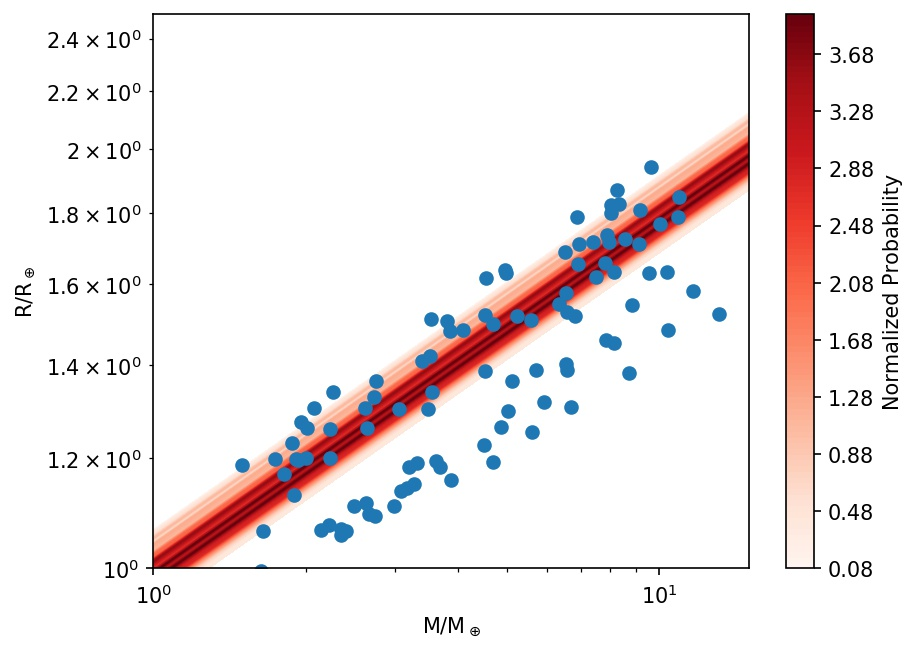
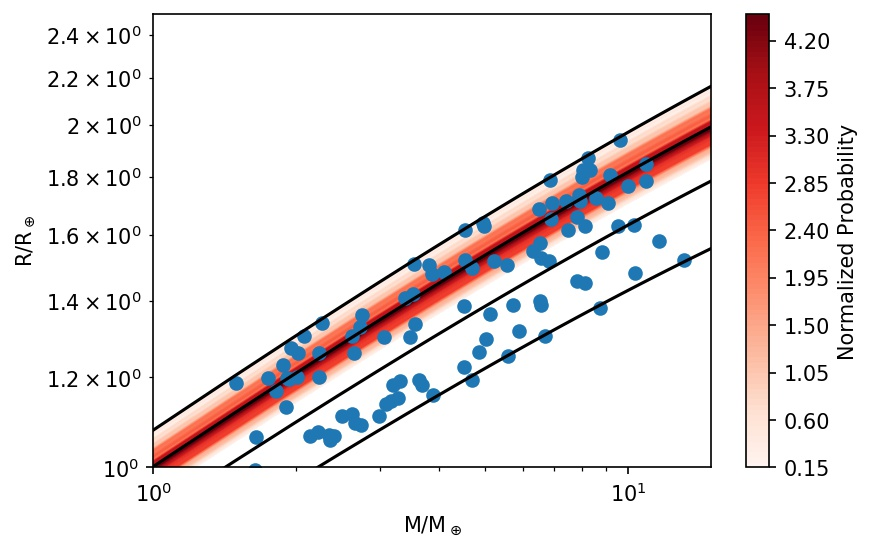
fix

Changed region(s): [[0.0, 0.0, 0.9897, 0.9239], [0.4639, 0.9239, 0.5258, 0.9855]]

diff --git a/SuperEarth.py b/SuperEarth.py
@@ -13,7 +13,7 @@ def f_cmf(M,R,si=0,fe=0.1):
         M: float/int
             Mass of the planet in Earth masses.
         R: float/int
-            Radius of the planet in Earth radius.
+            Radius of the planet in Earth radii.
         si: float
             Amount of silica in core by mol.
         fe: float
@@ -80,25 +80,18 @@ def f_FeSi(cmf,si=0,fe=0.1,py=0.6):
     Fe,Ni,Si,Mg,O = [55.85e-3,58.69e-3,28.09e-3,24.31e-3,16e-3]
     km = cmf*(2*(1-fe)*Mg+2*fe*Fe+Si*(1+py)+2*O*(2+py))
     kc = (1-cmf)*((0.88-si)*Fe+0.1*Ni+si*Si)  
-    return Fe/Si*( (0.88-si)*km+2*fe*kc )/( si*km+(1+py)*kc )
+    return Fe/Si*((0.88-si)*km+2*fe*kc)/(si*km+(1+py)*kc)
 
 def star_to_planet(FeSi,si=0,fe=0.1,py=0.6):
     """
     Convert Fe/Si values of the stars to cmf of planet depending
     on the assumed structure.
-    Parameters
     -----
-        FeSi: array_like
-            Fe/Si ratio by weight of the stars.
-        si: float
-            Amount of silica in core by mol.
-        fe: float
-            Amount of iron in mantle by mol.
-        py: float
-            Amount of olivine and pyroxene in the mantle.
-    Returns: float
-        Fe/Si ratio by weight.
+    FeSi: float/array_like
+        Fe/Si ratio by weight of the stars.
     """
+    if not isinstance(FeSi, (list, tuple, np.ndarray)): FeSi = [FeSi]
+    FeSi = np.asarray(FeSi) 
     func = lambda cmf,FeSi: (f_FeSi(cmf,si,fe,py)-FeSi)**2
     cmf = np.zeros(len(FeSi))
     for i,item in enumerate(FeSi):
@@ -106,23 +99,58 @@ def star_to_planet(FeSi,si=0,fe=0.1,py=0.6):
         cmf[i] = res.x
     return cmf
 
+def guess_pl(x,cmf,si,fe,py,method):
+    if method=='R':
+        def func(R):
+            if 0.8<R<5.:
+                return (f_cmf(x,R,si,fe)-cmf)**2
+            else:
+                return 1e6
+    elif method=='M':
+        def func(M):
+            if 0.8<M<25:
+                return (f_cmf(M,x,si,fe)-cmf)**2
+            else:
+                return 1e6
+    res = minimize(func,2)
+    return res.x
+def guess_R(M,FeSi,si=0,fe=0.1,py=0.6,cmf=None):
+    """
+    Guess planets radius [Re] given its mass [Me], based on estimate of 
+    Fe/Si ratio of the star.
+    """
+    if cmf is None:
+        cmf = float(star_to_planet(FeSi,si,fe,py))
+    R = guess_pl(M,cmf,si,fe,py,'R')
+    return R
+def guess_M(R,FeSi,si=0,fe=0.1,py=0.6,cmf=None):
+    """
+    Guess planets mass [Me] given its radius [Re], based on estimate of 
+    Fe/Si ratio of the star.
+    """
+    if cmf is None:
+        cmf = float(star_to_planet(FeSi,si,fe,py))
+    M = guess_pl(R,cmf,si,fe,py,'M')
+    return M
+
 def plot_cont(cmf):
     pdf,bins = np.histogram(cmf,int(np.sqrt(len(cmf))),
                         range=(0,max(cmf)),density=True)
     cmf_x = (bins[:-1]+bins[1:])/2
+    
     N = len(cmf_x)
     X1 = np.zeros([N,N])
     Y1 = np.zeros([N,N])
     Z1 = np.zeros([N,N])
-    x = np.linspace(-0.5,1.6,N) #mass in log space
-    m = 0.2544
-    args = np.array([-0.08996526, -0.18532778,  1.0564978 ])
+    M = np.linspace(1,20,N) 
     for i in range(N):
-        c = np.log10(args[2]+args[1]*cmf_x[i]+args[0]*cmf_x[i]**2)
-        y = m*x+c+0.005
-        X1[i] = x
-        Y1[i] = y
+        R = np.zeros(len(M))
+        for j,item in enumerate(M):
+            R[j] = guess_R(item,0,cmf=cmf_x[i])
+        X1[i] = M
+        Y1[i] = R
         Z1[i] += pdf[i]
-    return 10**X1,10**Y1,Z1
-    
-    
+    return X1,Y1,Z1
+
+
+

diff --git a/example.py b/example.py
@@ -34,4 +34,13 @@ plt.xlim(1,15)
 plt.ylim(1,2.5)
 plt.ylabel(r'R/R$_\oplus$')
 plt.xlabel(r'M/M$_\oplus$')
+#plot the estimates for sample compositions
+c = [0,0.32,0.67,0.999]
+x = np.linspace(1,15,30)
+for i,item in enumerate(c):
+    R = np.zeros(len(x))
+    for j,item in enumerate(x):
+        R[j] = guess_R(item,0,cmf=c[i])
+    plt.plot(x,R,c='k',zorder=10)
 plt.savefig('FeSi_star.jpg',fig=fig,bbox_inches='tight')
+
